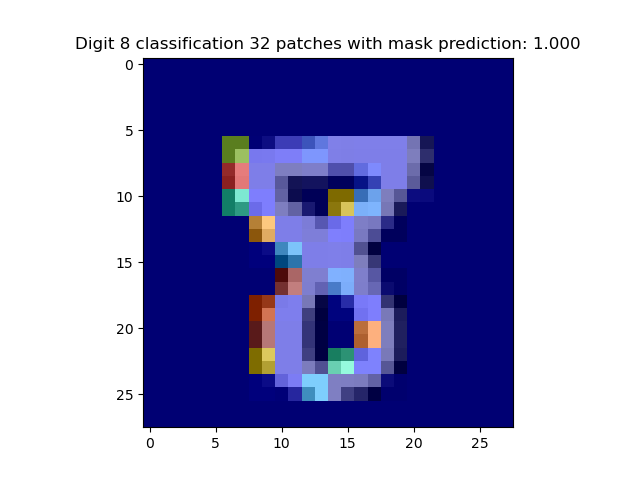
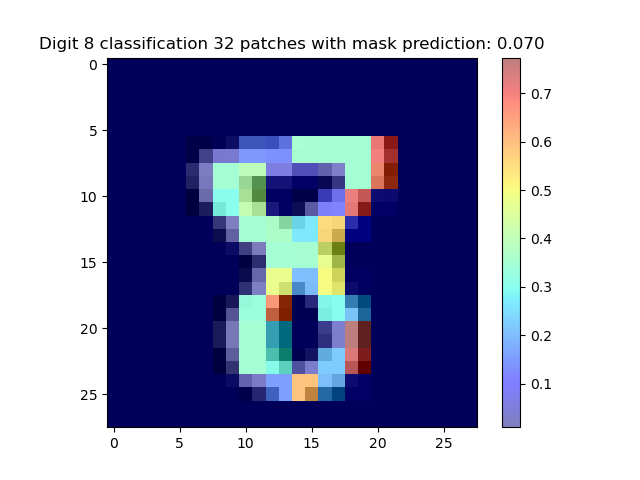
renamed:    XAI/cnn_vae_cluster_V4.py -> XAI/cnn_vae_cluster_V6.py

diff --git a/XAI/cnn_vae_cluster_V6.py b/XAI/cnn_vae_cluster_V6.py
@@ -51,6 +51,7 @@ testset = MNIST(
 )
 testloader = DataLoader(testset, batch_size=1000, shuffle=True)
 
+
 # %%
 
 
@@ -74,10 +75,30 @@ testloader_9 = DataLoader(testset_9, batch_size=32, shuffle=True)
 
 
 model.load_state_dict(torch.load("./XAI/CNN_MNSIT.pth", weights_only=True))
+# Set the model to evaluation mode
+model.eval()
 
+# Initialize variables to track the number of correct predictions and the total number of samples
+correct = 0
+total = 0
+
+# Disable gradient calculation for evaluation
+with torch.no_grad():
+    for data, target in testloader:
+        data, target = data.to(device), target.to(device)
+        outputs = model(data)
+        _, predicted = torch.max(outputs, 1)
+        total += target.size(0)
+        correct += (predicted == target).sum().item()
+
+# Calculate and print the accuracy
+accuracy = 100 * correct / total
+print(f"Accuracy of the model on the test images: {accuracy:.2f}%")
+
+# %%
 """## Inital image setup"""
 
-img_id = 3
+img_id = 1
 input = testset_8[img_id]
 img = input[0].squeeze(0).clone()
 true_y = input[1]
@@ -212,7 +233,7 @@ def loss_function(x, mu, log_var, phi, x_recon):
 # SECTION: Training
 
 torch.autograd.set_detect_anomaly(True)
-epochs = 5000
+epochs = 500
 leaner_epochs = 10
 predicted = true_y
 channels_img = 1
@@ -234,7 +255,8 @@ for epoch in range(epochs + 1):
         # train generator
         model.eval()
         opt_G.zero_grad()
-        critic_fake = F.softmax(model(x_recon), dim=1)[0][predicted]
+        with torch.no_grad():
+            critic_fake = F.softmax(model(x_recon), dim=1)[0][predicted]
         t1 = -torch.sum(torch.log(critic_fake + 1e-5))
         t2 = loss_function(x, mu, log_var, phi, x_recon)
         loss_G = t1 + t2
@@ -246,7 +268,8 @@ for epoch in range(epochs + 1):
     # train learner Get the index of the max log-probability
     model.eval()
     opt_L.zero_grad()
-    critic_fake = F.softmax(model(x_recon), dim=1)[0][predicted]
+    with torch.no_grad():
+        critic_fake = F.softmax(model(x_recon), dim=1)[0][predicted]
     loss_L = -(torch.mean(critic_fake))
     loss_L.backward()
     opt_L.step()
@@ -283,142 +306,25 @@ plot_recon_img(x_recon, model, true_y, img_id)
 
 # %%
 # SECTION: find the n_th patch of image
-p_interpolate = phi[:, argmax_i, :, :].unsqueeze(0)  # Add batch dimension
+# p_interpolate = phi[:, argmax_i, :, :].unsqueeze(0)  # Add batch dimension
+p_interpolate = phi[:, 7, :, :].unsqueeze(0)  # Add batch dimension
 p_interpolate = nn.Upsample(size=(28, 28), mode="nearest")(
     p_interpolate
 )  # Apply upsampling
 plot_patch_image(img, model, true_y, img_id, p_interpolate, device)
 
 # %%
-
-
-# SECTION: randomly pick data from testloader_8 and plot_recon_img and plot_patch_image
-
-for i in range(5):
-    img_id = i
-    input = testset_8[img_id]
-    true_y = input[1]
-    data = input[0].clone().view(1, 1, 28, 28).to(device)
-    # Generate the reconstructed image and patch image
-    z, mean, log_var, p = L(data)
-    x_recon, p_interpolate = G(z, p)
-    model.eval()
-    plot_recon_img(x_recon, model, true_y, img_id)
-    plot_patch_image(data.squeeze(0), model, true_y, img_id, p, p_interpolate, device)
-
-    mask_data = data * (p_interpolate < 0.1)
-    num_mask_patches = (p < 0.1).sum()
-    mask_prediction = F.softmax(model(mask_data), dim=1)
-    # print(f"prediction: {mask_prediction[0][true_y]}, num_patches = {num_patches}")
-    print(
-        f"prediction: {mask_prediction[0][true_y]}, num_mask_patches = {num_mask_patches}"
-    )
-
-# %%
-# SECTION: find the top n_th high variance pixels
-# maybe not important
-
-for n in range(5, 31, 5):
-    flat_tensor = log_var.exp().flatten()
-    top_10_indices = torch.topk(flat_tensor, n).indices
-    high_var_index = torch.zeros_like(flat_tensor, dtype=torch.bool)
-    high_var_index[top_10_indices] = True
-    high_var_index = high_var_index.view(log_var.shape[2], log_var.shape[3])
-
-    # Convert boolean tensor to float tensor
-    high_var_index = high_var_index.float()
-    high_var_index = high_var_index.unsqueeze(0).unsqueeze(
-        0
-    )  # Add batch and channel dimensions
-    # interpolation to 28x28
-    c = F.interpolate(high_var_index, size=(28, 28), mode="nearest")
-    c = c.squeeze(0).view(1, 1, 28, 28)
-    new_image = x * c.view(1, 1, 28, 28)
-    x_recon_pred = torch.argmax(F.softmax(model(new_image), dim=1))
-    print(f"When n={n}, x_recon_pred: {x_recon_pred}")
-    plt.imshow(new_image.squeeze(0).squeeze(0).detach().numpy(), cmap="gray")
-    # Add a colorbar to show the mapping from colors to values
-    plt.title(
-        f"Digit {x_recon_pred} Surrogate model with prediction: {F.softmax(model(new_image), dim=1).max():.3f}"
-    )
-    plt.savefig(f"ID {img_id}-Digit {true_y} pred {x_recon_pred} with n={n}.png")
-    plt.show()
-    plt.clf()
-
-
-# %%
-
+# SECTION: train testloader
 
 torch.autograd.set_detect_anomaly(True)
 epochs = 500
-leaner_epochs = 5
-predicted = true_y
-# predicted = 9
-G = generator(1).to(device)
-L = learner(1).to(device)
-
-opt_G = torch.optim.Adam(G.parameters(), lr=0.005)
-opt_L = torch.optim.Adam(L.parameters(), lr=0.005)
-
-for batch_idx, (data, target) in enumerate(testloader_8):
-    data = data.to(device)
-    target = target.to(device)
-    for epoch in range(epochs + 1):
-        for leaner_epoch in range(leaner_epochs + 1):
-            opt_L.zero_grad()
-            x = data.clone().to(device)
-            z, mean, log_var, p = L(x)
-            x_recon, p_interpolate = G(z, p)
-            # z, mean, log_var = L(x)
-            # x_recon, p = G(x, z)
-
-            # Get the index of the max log-probability
-            model.eval()
-            critic_fake = F.softmax(model(x_recon), dim=1)[0][predicted]
-
-            loss_L = -(torch.mean(critic_fake))
-            # loss = loss_function(x, x_recon, mean, log_var) - torch.log(critic_real + 1e-5) * (
-            #     -torch.log(critic_fake + 1e-5)
-            # )
-
-            loss_L.backward()
-            opt_L.step()
-
-        opt_G.zero_grad()
-        z, mean, log_var, p = L(x)
-        x_recon, p_interpolate = G(z, p)
-
-        model.eval()
-        critic_fake = F.softmax(model(x_recon), dim=1)[0][predicted]
-        t1 = -torch.sum(torch.log(critic_fake + 1e-5))
-        t2 = loss_function(x, x_recon, mean, log_var, p)
-        t3 = -torch.sum(p * torch.log(p + 1e-5))
-
-        # FIXME: will black out the digit
-        # alpha = torch.sum(p)
-
-        # NOTE: original loss function
-        loss_G = t1 + t2 + t3
-
-        # NOTE: alternative loss function
-        # loss_G = torch.mean(critic_fake)
-
-        loss_G.backward(retain_graph=True)  # Retain graph for t3
-        opt_G.step()
-
-        if epoch % 500 == 0:
-            print(f"epoch: {epoch}, loss_L: {loss_L}, loss_G: {loss_G}")
-
-# %%
-# SECTION: train testloader
-
-
-epochs = 500
 leaner_epochs = 10
 predicted = true_y
-# predicted = 9
-G = generator(1).to(device)
-L = learner(1).to(device)
+channels_img = 1
+latent_dim = 10
+
+G = Generator(latent_dim, channels_img).to(device)
+L = Learner(channels_img, latent_dim).to(device)
 
 opt_G = torch.optim.Adam(G.parameters(), lr=0.005)
 opt_L = torch.optim.Adam(L.parameters(), lr=0.005)
@@ -430,40 +336,34 @@ for batch_idx, (data, target) in enumerate(testloader):
         for leaner_epoch in range(leaner_epochs + 1):
             opt_L.zero_grad()
             x = data.clone().to(device)
-            z, mean, log_var, p = L(x)
-            x_recon, p_interpolate = G(z, p)
-
-            # Get the index of the max log-probability
             predicted = target
+
+            z, mu, log_var, phi = L(x)
+            x_recon = G(z)
+
+            # train generator
             model.eval()
-            critic_fake = F.softmax(model(x_recon), dim=1)[0][predicted]
+            opt_G.zero_grad()
+            # critic_fake = F.softmax(model(x_recon), dim=1)[0][predicted]
+            outputs = F.softmax(model(x), dim=1)
+            predicted = torch.argmax(outputs, dim=1)
+            critic_fake = outputs[torch.arange(len(predicted)), predicted]
 
-            loss_L = -(critic_fake.mean())
+            t1 = -torch.sum(torch.log(critic_fake + 1e-5))
+            t2 = loss_function(x, mu, log_var, phi, x_recon)
+            loss_G = t1 + t2
+            loss_G.backward(retain_graph=True)  # Retain graph for t3
+            opt_G.step()
 
-            loss_L.backward()
-            opt_L.step()
-
-        opt_G.zero_grad()
-        z, mean, log_var, p = L(x)
-        x_recon, p_interpolate = G(z, p)
-
+        z, mu, log_var, phi = L(x)
+        x_recon = G(z)
+        # train learner Get the index of the max log-probability
         model.eval()
+        opt_L.zero_grad()
         critic_fake = F.softmax(model(x_recon), dim=1)[0][predicted]
-        t1 = -torch.sum(torch.log(critic_fake + 1e-5))
-        t2 = loss_function(x, x_recon, mean, log_var, p)
-        t3 = -torch.sum(p * torch.log(p + 1e-5))
-
-        # FIXME: will black out the digit
-        # alpha = torch.sum(p)
-
-        # NOTE: original loss function
-        loss_G = t1 + t2 + t3
-
-        # NOTE: alternative loss function
-        # loss_G = torch.mean(critic_fake)
-
-        loss_G.backward(retain_graph=True)  # Retain graph for t3
-        opt_G.step()
+        loss_L = -(torch.mean(critic_fake))
+        loss_L.backward()
+        opt_L.step()
 
         if epoch % 500 == 0:
             print(f"epoch: {epoch}, loss_L: {loss_L}, loss_G: {loss_G}")

diff --git a/XAI/helper.py b/XAI/helper.py
@@ -30,8 +30,8 @@ def plot_recon_img(x_recon, model, true_y, img_id):
     plt.clf()
 
 
-def plot_patch_image(img, model, true_y, img_id, p_interpolate, device):
-    num_patches = torch.sum(p_interpolate > 0.5)
+def plot_patch_image(img, model, true_y, img_id, p_interpolate, device, p=0.5):
+    num_patches = torch.sum(p_interpolate > p)
     x = img.clone().to(device)
     x = x.view(1, 1, 28, 28)
     # Convert tensors to numpy arrays
@@ -42,7 +42,7 @@ def plot_patch_image(img, model, true_y, img_id, p_interpolate, device):
     plt.imshow(x_np, cmap="gray")
 
     # mask data prediction
-    mask_data = x * (p_interpolate < 0.1)
+    mask_data = x * (p_interpolate > p)
     mask_prediction = F.softmax(model(mask_data), dim=1)[0][true_y]
 
     # Overlay p_interpolate on top of x
